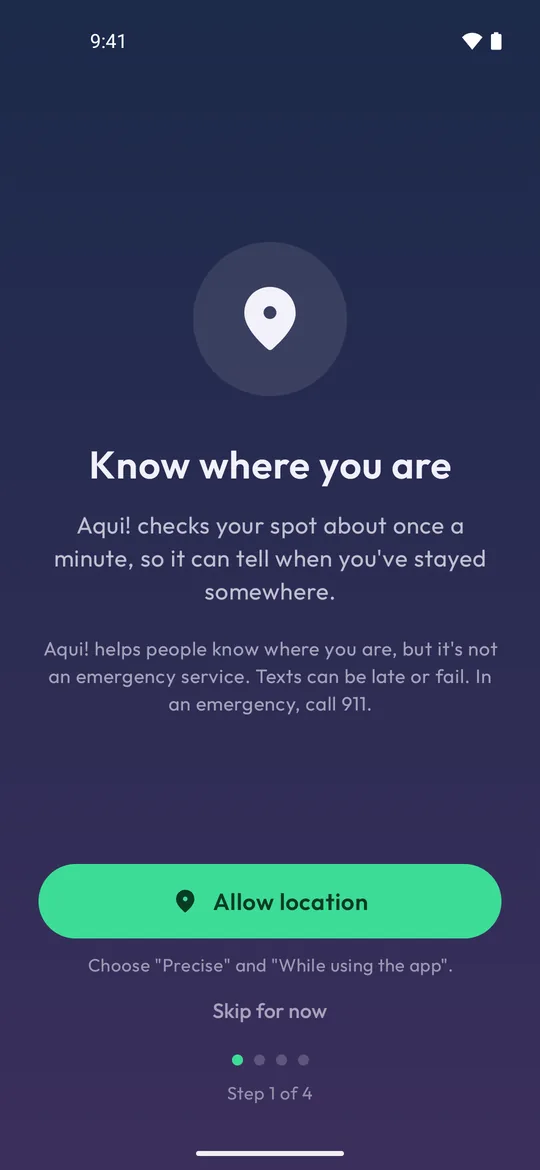
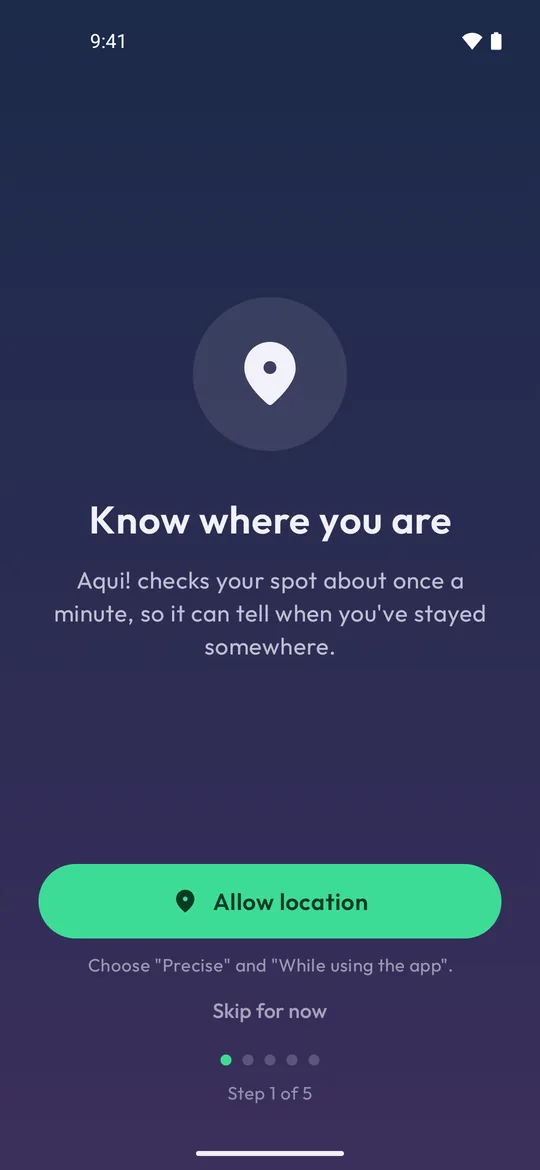
Version 1.1: not-an-emergency-service page at the end of setup

Changed region(s): [[0.0889, 0.2462, 0.9185, 0.6154], [0.4148, 0.8923, 0.5926, 0.9538]]

diff --git a/app/src/main/java/io/github/iamanthonycruz/aqui/ui/WelcomeScreen.kt b/app/src/main/java/io/github/iamanthonycruz/aqui/ui/WelcomeScreen.kt
@@ -24,6 +24,9 @@ import androidx.compose.foundation.layout.height
 import androidx.compose.foundation.layout.padding
 import androidx.compose.foundation.layout.safeDrawingPadding
 import androidx.compose.foundation.layout.size
+import androidx.compose.foundation.layout.width
+import androidx.compose.foundation.selection.toggleable
+import androidx.compose.foundation.shape.RoundedCornerShape
 import androidx.compose.foundation.shape.CircleShape
 import androidx.compose.material.icons.Icons
 import androidx.compose.material.icons.rounded.BatteryFull
@@ -31,6 +34,9 @@ import androidx.compose.material.icons.rounded.LocationOn
 import androidx.compose.material.icons.rounded.Settings
 import androidx.compose.material.icons.rounded.Sms
 import androidx.compose.material.icons.rounded.Update
+import androidx.compose.material.icons.rounded.WarningAmber
+import androidx.compose.material3.Checkbox
+import androidx.compose.material3.CheckboxDefaults
 import androidx.compose.material3.Icon
 import androidx.compose.material3.Text
 import androidx.compose.material3.TextButton
@@ -46,6 +52,7 @@ import androidx.compose.ui.Alignment
 import androidx.compose.ui.Modifier
 import androidx.compose.ui.draw.clip
 import androidx.compose.ui.graphics.vector.ImageVector
+import androidx.compose.ui.semantics.Role
 import androidx.compose.ui.platform.LocalContext
 import androidx.compose.ui.text.font.FontWeight
 import androidx.compose.ui.text.style.TextAlign
@@ -61,6 +68,7 @@ import io.github.iamanthonycruz.aqui.ui.theme.Alert
 import io.github.iamanthonycruz.aqui.ui.theme.Covered
 import io.github.iamanthonycruz.aqui.ui.theme.AquiTheme
 import io.github.iamanthonycruz.aqui.ui.theme.Mist
+import io.github.iamanthonycruz.aqui.ui.theme.OnCovered
 
 /** What one walkthrough page says. */
 private data class PageText(
@@ -129,9 +137,12 @@ private fun mainPermission(page: SetupPage): String? = when (page) {
     SetupPage.BATTERY -> null
 }
 
-/** First launch: one page per permission, each saying why. Already-allowed pages are skipped. */
+/**
+ * First launch: one page per permission, each saying why (already-allowed pages are skipped), then
+ * the not-an-emergency-service page, which needs its box ticked. [askPermissions] false = only that last page.
+ */
 @Composable
-fun WelcomeRoute(onDone: () -> Unit) {
+fun WelcomeRoute(askPermissions: Boolean = true, onDone: () -> Unit) {
     val context = LocalContext.current
     var perms by remember { mutableStateOf(Perms.state(context)) }
     /** Index of the page we're on or past. Skipping or allowing moves it on. */
@@ -147,14 +158,14 @@ fun WelcomeRoute(onDone: () -> Unit) {
         onPauseOrDispose { }
     }
 
-    val page = Onboarding.next(perms, from)
-    /** The first page this walkthrough showed: it carries the not-an-emergency-service note. */
-    val firstPage by rememberSaveable { mutableIntStateOf(page?.ordinal ?: 0) }
+    val page = if (askPermissions) Onboarding.next(perms, from) else null
     LaunchedEffect(page) {
-        if (page == null) onDone()
-        else if (page.ordinal != from) { from = page.ordinal; refused = false; blocked = false }
+        if (page != null && page.ordinal != from) { from = page.ordinal; refused = false; blocked = false }
     }
-    if (page == null) return
+    if (page == null) {
+        NotEmergencyScreen(showSteps = askPermissions, onDone = onDone)
+        return
+    }
 
     fun afterAnswer() {
         perms = Perms.state(context)
@@ -201,7 +212,6 @@ fun WelcomeRoute(onDone: () -> Unit) {
         perms = perms,
         refused = refused,
         blocked = blocked,
-        showNotice = page.ordinal == firstPage,
         onAllow = ::ask,
         onSkip = { from = page.ordinal + 1; refused = false; blocked = false },
     )
@@ -215,7 +225,6 @@ fun WelcomeScreen(
     blocked: Boolean,
     onAllow: () -> Unit,
     onSkip: () -> Unit,
-    showNotice: Boolean = false,
 ) {
     val t = textFor(page)
     val without = if (page == SetupPage.LOCATION && perms.approximateOnly) {
@@ -243,13 +252,6 @@ fun WelcomeScreen(
             t.why,
             color = Mist.copy(alpha = 0.75f), fontSize = 17.sp, lineHeight = 24.sp, textAlign = TextAlign.Center,
         )
-        if (showNotice) {
-            Spacer(Modifier.height(20.dp))
-            Text(
-                NOT_EMERGENCY,
-                color = Mist.copy(alpha = 0.6f), fontSize = 14.sp, lineHeight = 20.sp, textAlign = TextAlign.Center,
-            )
-        }
         Spacer(Modifier.weight(1f))
 
         if (refused) {
@@ -278,14 +280,72 @@ fun WelcomeScreen(
             Text("Skip for now", color = Mist.copy(alpha = 0.6f), fontSize = 15.sp)
         }
         Spacer(Modifier.height(8.dp))
-        StepDots(current = page.ordinal, total = SetupPage.entries.size)
+        StepDots(current = page.ordinal, total = STEPS)
     }
 }
 
-/** Shown once, on the first setup page: the app is a convenience, not a safety guarantee. */
-const val NOT_EMERGENCY =
-    "Aqui! helps people know where you are, but it's not an emergency service. " +
-        "Texts can be late or fail. In an emergency, call 911."
+/** The permission pages plus the last, not-an-emergency-service page. */
+private val STEPS = SetupPage.entries.size + 1
+
+/** The last setup page: the app is a convenience, not a safety guarantee. Can't go on until ticked. */
+@Composable
+fun NotEmergencyScreen(showSteps: Boolean, onDone: () -> Unit) {
+    var understood by rememberSaveable { mutableStateOf(false) }
+    Column(
+        horizontalAlignment = Alignment.CenterHorizontally,
+        modifier = Modifier
+            .fillMaxSize()
+            .duskBackground()
+            .safeDrawingPadding()
+            .padding(horizontal = 28.dp, vertical = 20.dp),
+    ) {
+        Spacer(Modifier.weight(1f))
+        Box(
+            contentAlignment = Alignment.Center,
+            modifier = Modifier.size(112.dp).clip(CircleShape).background(Alert.copy(alpha = 0.14f)),
+        ) {
+            Icon(Icons.Rounded.WarningAmber, contentDescription = null, tint = Alert, modifier = Modifier.size(56.dp))
+        }
+        Spacer(Modifier.height(32.dp))
+        Text("Before you start", color = Mist, fontSize = 28.sp, fontWeight = FontWeight.SemiBold, textAlign = TextAlign.Center)
+        Spacer(Modifier.height(14.dp))
+        Text(
+            "Aqui! is not an emergency service. A text can be late or never sent: no signal, a dead battery, " +
+                "or a phone that pauses apps.",
+            color = Mist.copy(alpha = 0.75f), fontSize = 17.sp, lineHeight = 24.sp, textAlign = TextAlign.Center,
+        )
+        Spacer(Modifier.height(14.dp))
+        Text("In an emergency, call 911.", color = Mist, fontSize = 17.sp, fontWeight = FontWeight.SemiBold)
+        Spacer(Modifier.weight(1f))
+
+        Row(
+            verticalAlignment = Alignment.CenterVertically,
+            modifier = Modifier
+                .fillMaxWidth()
+                .clip(RoundedCornerShape(16.dp))
+                .toggleable(value = understood, role = Role.Checkbox, onValueChange = { understood = it })
+                .padding(vertical = 8.dp),
+        ) {
+            Checkbox(
+                checked = understood,
+                onCheckedChange = null,
+                colors = CheckboxDefaults.colors(
+                    checkedColor = Covered,
+                    checkmarkColor = OnCovered,
+                    uncheckedColor = Mist.copy(alpha = 0.5f),
+                ),
+            )
+            Spacer(Modifier.width(12.dp))
+            Text("I understand Aqui! is not an emergency service", color = Mist, fontSize = 16.sp, lineHeight = 22.sp)
+        }
+        Spacer(Modifier.height(14.dp))
+        PrimaryButton(text = "Get started", onClick = onDone, enabled = understood, modifier = Modifier.fillMaxWidth())
+        if (showSteps) {
+            Spacer(Modifier.height(24.dp))
+            StepDots(current = STEPS - 1, total = STEPS)
+        }
+    }
+}
 
 @Composable
 private fun StepDots(current: Int, total: Int) {
@@ -310,9 +370,15 @@ private fun WelcomePreview() {
         WelcomeScreen(
             page = SetupPage.LOCATION,
             perms = PermState(location = false, backgroundLocation = false, sms = false, battery = false),
-            refused = false, blocked = false, onAllow = {}, onSkip = {}, showNotice = true,
+            refused = false, blocked = false, onAllow = {}, onSkip = {},
         )
     }
+}
+
+@Preview(widthDp = 393, heightDp = 851)
+@Composable
+private fun NotEmergencyPreview() {
+    AquiTheme { NotEmergencyScreen(showSteps = true, onDone = {}) }
 }
 
 private tailrec fun Context.findActivity(): Activity? = when (this) {

diff --git a/app/src/main/java/io/github/iamanthonycruz/aqui/ui/Form.kt b/app/src/main/java/io/github/iamanthonycruz/aqui/ui/Form.kt
@@ -199,8 +199,14 @@ private fun FieldBox(
 
 /** The main action: full-width green pill. */
 @Composable
-fun PrimaryButton(text: String, onClick: () -> Unit, modifier: Modifier = Modifier, icon: ImageVector? = null) {
-    PillButton(text, onClick, Covered, OnCovered, modifier, icon)
+fun PrimaryButton(
+    text: String,
+    onClick: () -> Unit,
+    modifier: Modifier = Modifier,
+    icon: ImageVector? = null,
+    enabled: Boolean = true,
+) {
+    PillButton(text, onClick, Covered, OnCovered, modifier, icon, enabled)
 }
 
 /** A lesser action: full-width see-through pill. */
@@ -210,7 +216,15 @@ fun SecondaryButton(text: String, onClick: () -> Unit, modifier: Modifier = Modi
 }
 
 @Composable
-private fun PillButton(text: String, onClick: () -> Unit, bg: Color, fg: Color, modifier: Modifier, icon: ImageVector?) {
+private fun PillButton(
+    text: String,
+    onClick: () -> Unit,
+    bg: Color,
+    fg: Color,
+    modifier: Modifier,
+    icon: ImageVector?,
+    enabled: Boolean = true,
+) {
     Row(
         verticalAlignment = Alignment.CenterVertically,
         horizontalArrangement = Arrangement.Center,
@@ -218,14 +232,15 @@ private fun PillButton(text: String, onClick: () -> Unit, bg: Color, fg: Color, 
             .fillMaxWidth()
             .height(54.dp)
             .clip(CircleShape)
-            .background(bg)
-            .clickable(role = Role.Button, onClick = onClick),
+            .background(if (enabled) bg else Mist.copy(alpha = 0.10f))
+            .clickable(enabled = enabled, role = Role.Button, onClick = onClick),
     ) {
+        val color = if (enabled) fg else Mist.copy(alpha = 0.4f)
         if (icon != null) {
-            Icon(icon, contentDescription = null, tint = fg, modifier = Modifier.size(20.dp))
+            Icon(icon, contentDescription = null, tint = color, modifier = Modifier.size(20.dp))
             Spacer(Modifier.width(10.dp))
         }
-        Text(text, color = fg, fontSize = 17.sp, fontWeight = FontWeight.SemiBold)
+        Text(text, color = color, fontSize = 17.sp, fontWeight = FontWeight.SemiBold)
     }
 }
 

diff --git a/app/src/main/java/io/github/iamanthonycruz/aqui/Prefs.kt b/app/src/main/java/io/github/iamanthonycruz/aqui/Prefs.kt
@@ -7,6 +7,7 @@ object Prefs {
     private const val FILE = "aqui"
     private const val KEY_ENABLED = "enabled"
     private const val KEY_ONBOARDED = "onboarded"
+    private const val KEY_NOT_EMERGENCY_OK = "not_emergency_ok"
     private const val KEY_LOW_BATTERY_FIRED = "low_battery_fired"
     private const val KEY_STAY_LAT = "stay_lat"
     private const val KEY_STAY_LNG = "stay_lng"
@@ -22,6 +23,10 @@ object Prefs {
     /** The first-launch permission walkthrough was finished or skipped through. */
     fun isOnboarded(c: Context) = sp(c).getBoolean(KEY_ONBOARDED, false)
     fun setOnboarded(c: Context) = sp(c).edit().putBoolean(KEY_ONBOARDED, true).apply()
+
+    /** Ticked "I understand Aqui! is not an emergency service" on the last setup page. */
+    fun isNotEmergencyOk(c: Context) = sp(c).getBoolean(KEY_NOT_EMERGENCY_OK, false)
+    fun setNotEmergencyOk(c: Context) = sp(c).edit().putBoolean(KEY_NOT_EMERGENCY_OK, true).apply()
 
     fun isEnabled(c: Context) = sp(c).getBoolean(KEY_ENABLED, false)
     fun setEnabled(c: Context, v: Boolean) = sp(c).edit().putBoolean(KEY_ENABLED, v).apply()

diff --git a/app/src/test/java/io/github/iamanthonycruz/aqui/OnboardingTest.kt b/app/src/test/java/io/github/iamanthonycruz/aqui/OnboardingTest.kt
@@ -1,6 +1,8 @@
 package io.github.iamanthonycruz.aqui
 
 import org.junit.Assert.assertEquals
+import org.junit.Assert.assertFalse
+import org.junit.Assert.assertTrue
 import org.junit.Assert.assertNull
 import org.junit.Test
 
@@ -28,4 +30,19 @@ class OnboardingTest {
 
     @Test
     fun `past the last page is the end`() = assertNull(Onboarding.next(none, from = SetupPage.entries.size))
+
+    @Test
+    fun `fresh install opens setup`() = assertTrue(Onboarding.showAtLaunch(false, false, none))
+
+    @Test
+    fun `everything allowed still opens setup for the not-an-emergency page`() =
+        assertTrue(Onboarding.showAtLaunch(false, false, all))
+
+    @Test
+    fun `set up before the notice page existed opens setup once`() =
+        assertTrue(Onboarding.showAtLaunch(onboarded = true, notEmergencyOk = false, s = all))
+
+    @Test
+    fun `ticked and set up goes straight to start`() =
+        assertFalse(Onboarding.showAtLaunch(onboarded = true, notEmergencyOk = true, s = none))
 }

diff --git a/app/src/main/java/io/github/iamanthonycruz/aqui/ui/AquiApp.kt b/app/src/main/java/io/github/iamanthonycruz/aqui/ui/AquiApp.kt
@@ -32,12 +32,16 @@ fun AquiApp() {
     val nav = rememberNavController()
     val context = LocalContext.current
     val first = remember {
-        if (!Prefs.isOnboarded(context) && Onboarding.next(Perms.state(context)) != null) WELCOME else START
+        val show = Onboarding.showAtLaunch(Prefs.isOnboarded(context), Prefs.isNotEmergencyOk(context), Perms.state(context))
+        if (show) WELCOME else START
     }
     NavHost(navController = nav, startDestination = first) {
         composable(WELCOME) {
-            WelcomeRoute(onDone = {
+            // Set up before the last page existed: only that page, no permission pages again.
+            val askPermissions = remember { !Prefs.isOnboarded(context) }
+            WelcomeRoute(askPermissions = askPermissions, onDone = {
                 Prefs.setOnboarded(context)
+                Prefs.setNotEmergencyOk(context)
                 nav.navigate(START) { popUpTo(WELCOME) { inclusive = true } }
             })
         }

diff --git a/docs/index.html b/docs/index.html
@@ -108,7 +108,7 @@
 </header>
 
 <div class="phones">
-  <figure><div class="phone"><img src="img/setup.webp" alt="Setup page asking for location, with a note that Aqui! is not an emergency service" loading="lazy"></div>
+  <figure><div class="phone"><img src="img/setup.webp" alt="Setup page asking for location, with a short reason why" loading="lazy"></div>
     <figcaption><b>Set up once</b>Each permission explained</figcaption></figure>
   <figure><div class="phone"><img src="img/person.webp" alt="Adding a person: 30 minute timer and a preview of the text they'll get" loading="lazy"></div>
     <figcaption><b>Pick who and when</b>Their own timer and message</figcaption></figure>

diff --git a/app/src/main/java/io/github/iamanthonycruz/aqui/Onboarding.kt b/app/src/main/java/io/github/iamanthonycruz/aqui/Onboarding.kt
@@ -12,6 +12,13 @@ object Onboarding {
         SetupPage.BATTERY -> s.battery
     }
 
+    /**
+     * Whether to open the walkthrough at launch. Its last page (not an emergency service, with a
+     * checkbox) shows until ticked once, so people who set up before it existed see just that page.
+     */
+    fun showAtLaunch(onboarded: Boolean, notEmergencyOk: Boolean, s: PermState): Boolean =
+        !notEmergencyOk || (!onboarded && next(s) != null)
+
     /** The page to show, starting at [from] (a page index), or null when the walkthrough is over. */
     fun next(s: PermState, from: Int = 0): SetupPage? =
         SetupPage.entries.drop(from).firstOrNull { !done(it, s) }
